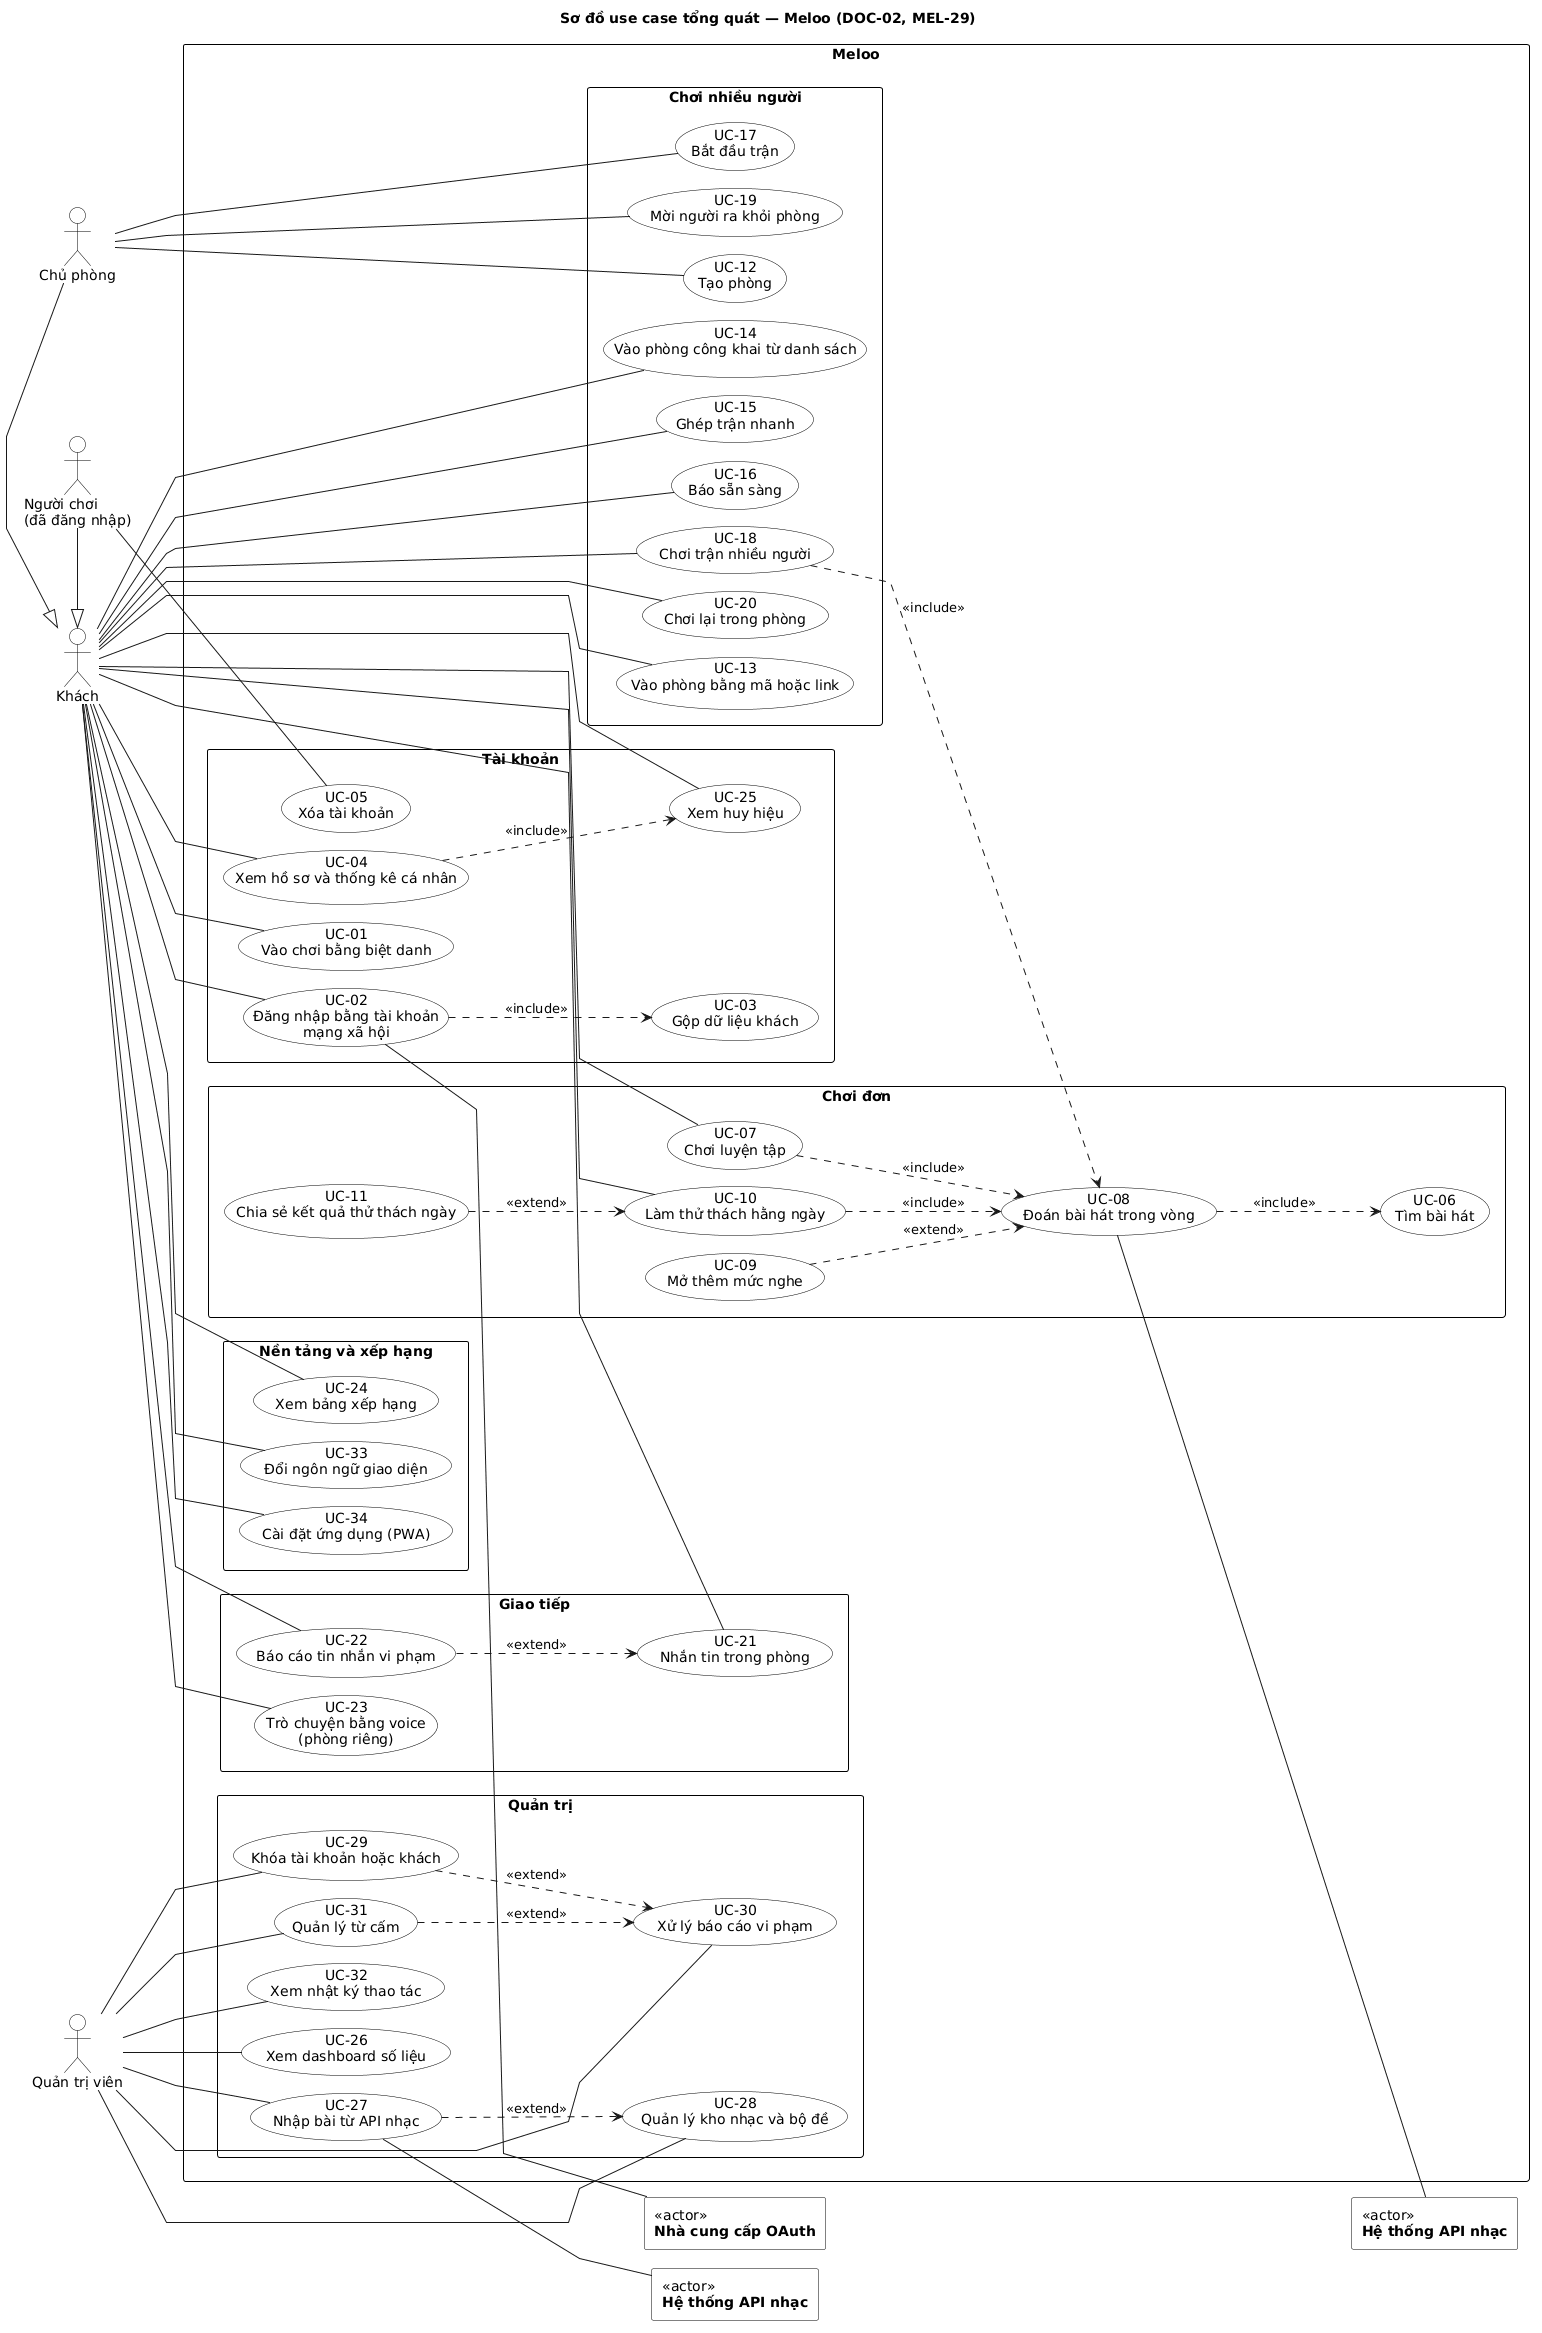
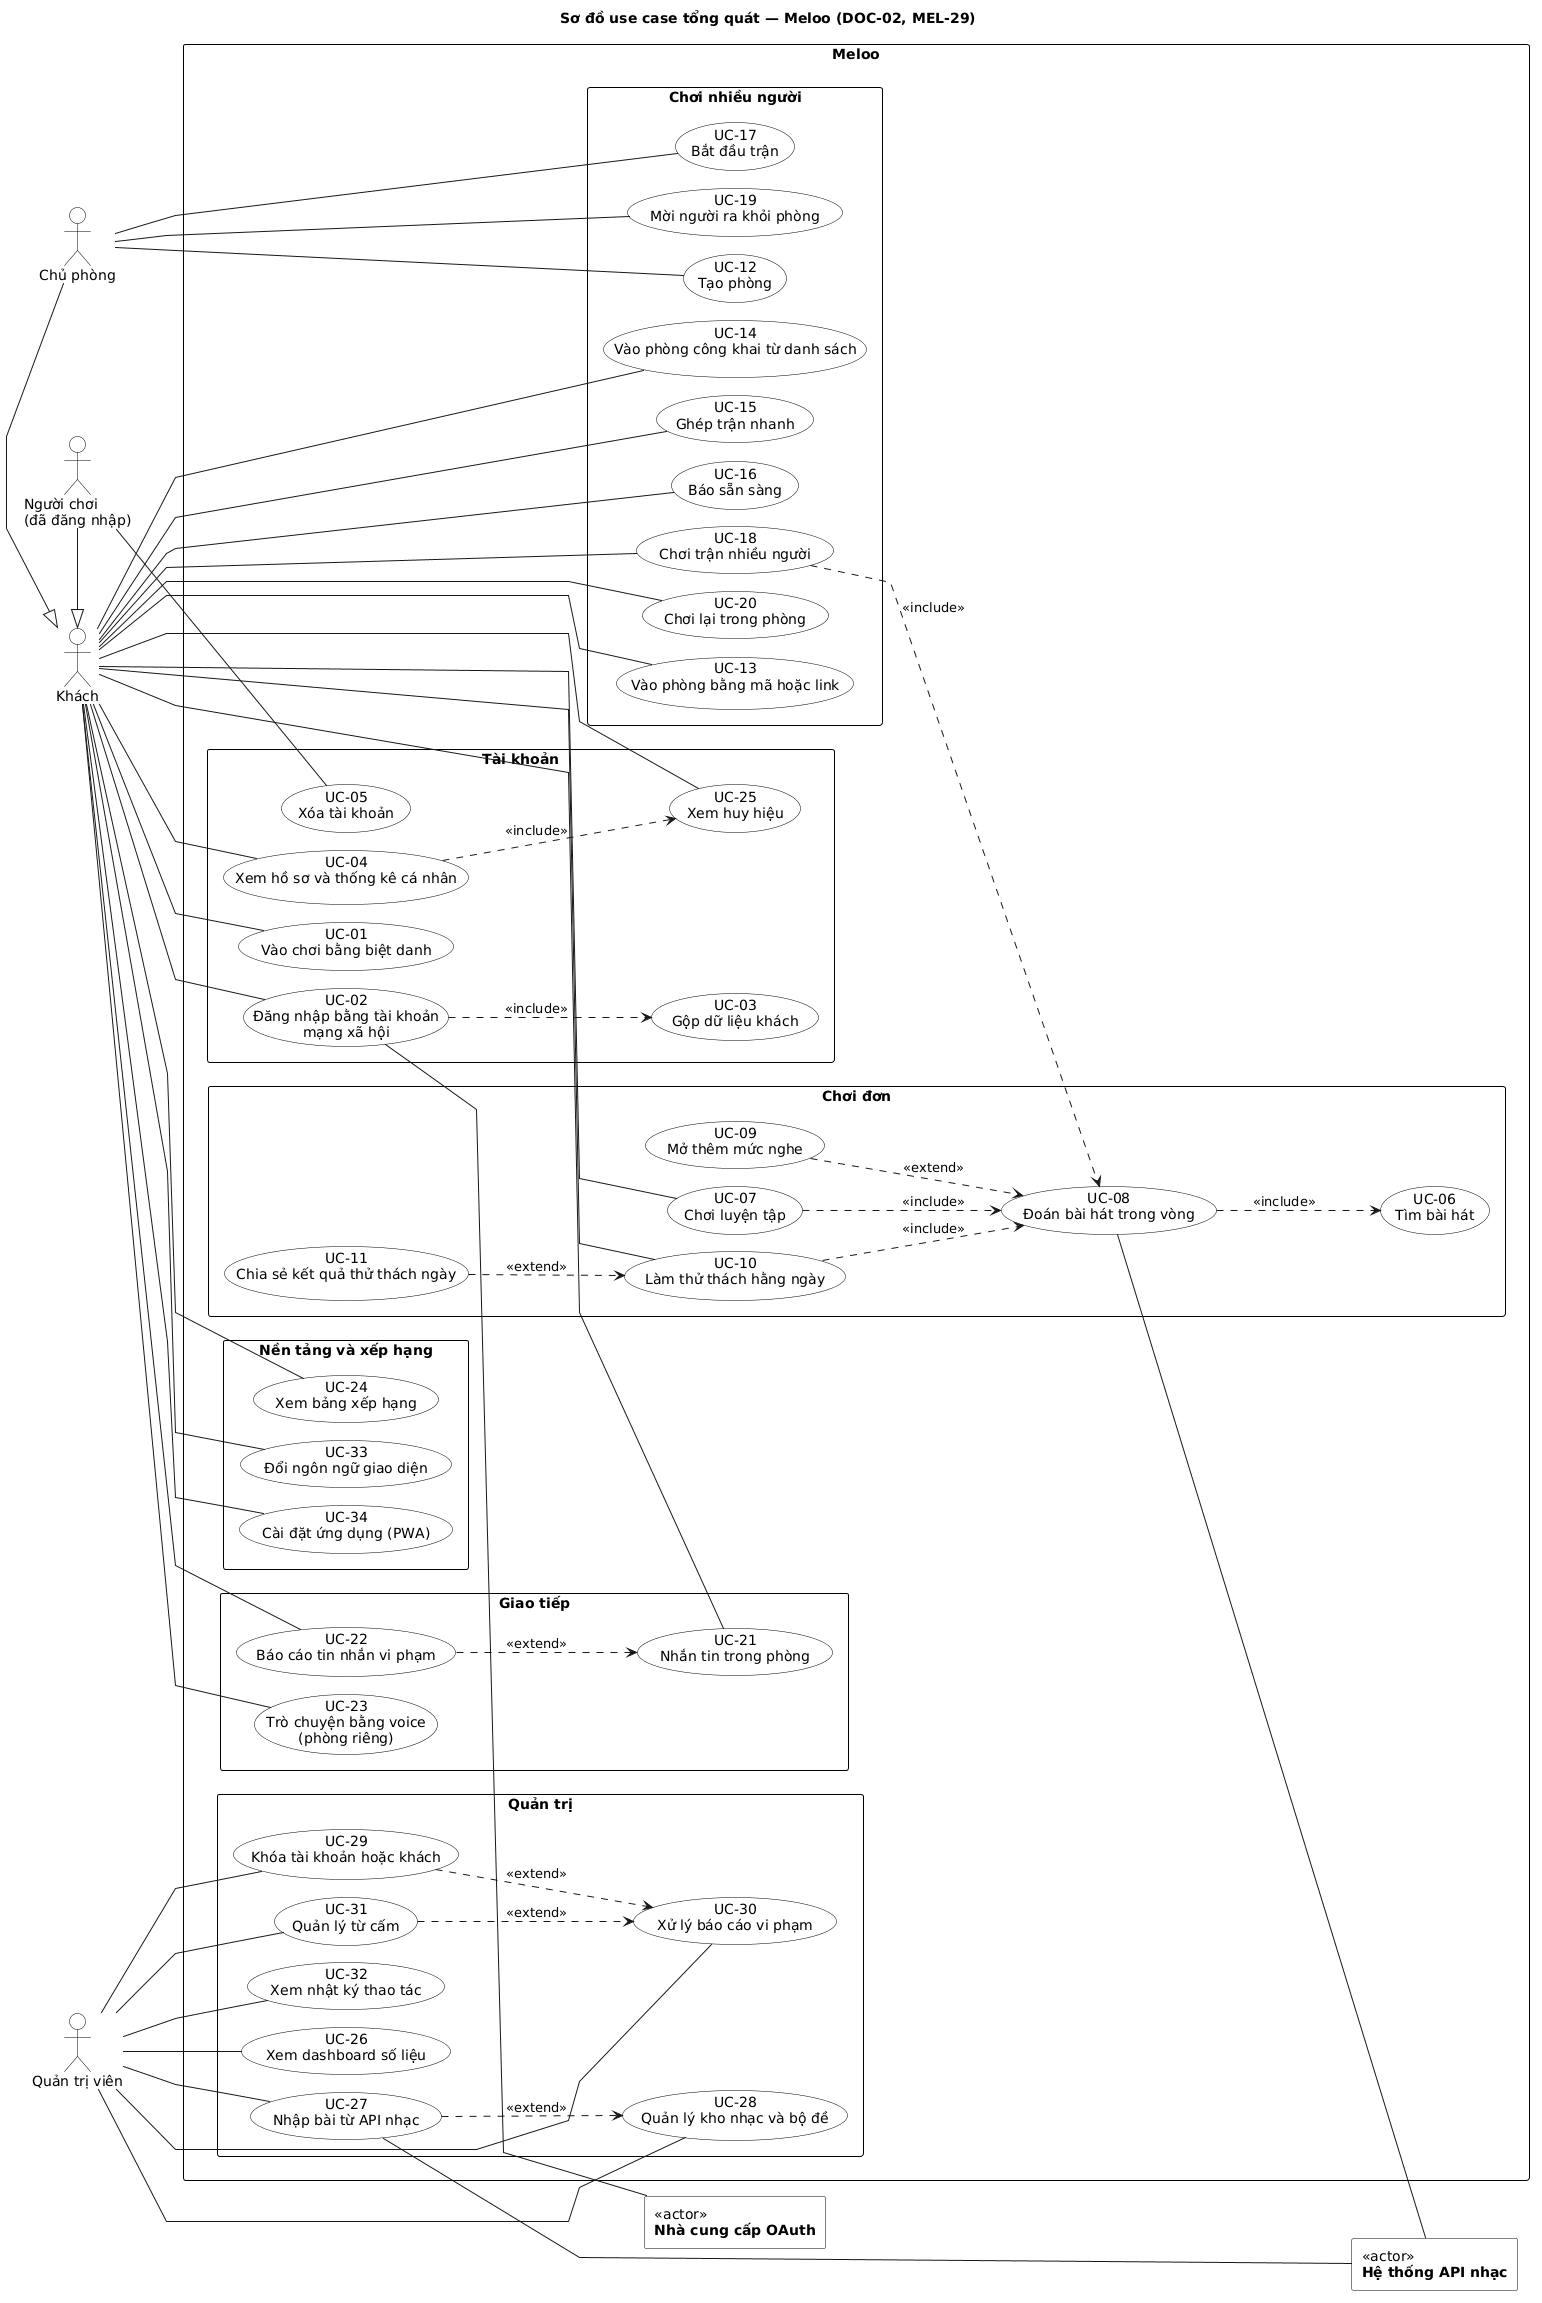
docs(srs): từ chối khách bị khóa ở UC-12, 13, 21; gộp tác nhân API nhạc

diff --git a/docs/srs/usecases/03-nhieu-nguoi.md b/docs/srs/usecases/03-nhieu-nguoi.md
@@ -4,7 +4,7 @@
 
 ### UC-12: Tạo phòng
 - Tác nhân chính / phụ: Chủ phòng (Khách hoặc Người chơi đã đăng nhập đang tạo phòng) / không có.
-- Tiền điều kiện: Người chơi có phiên và tài khoản không bị khóa.
+- Tiền điều kiện: Người chơi có phiên; tài khoản hoặc id khách của người chơi không bị khóa.
 - Hậu điều kiện (thành công / thất bại): Thành công: phòng tự tạo ở trạng thái sảnh chờ, có mã phòng, người tạo là chủ phòng. Thất bại: không có phòng nào được tạo.
 - Luồng chính:
   1. Người chơi chọn "Tạo phòng".
@@ -13,6 +13,7 @@
   4. Hệ thống tạo phòng, sinh mã 6 ký tự gồm chữ in hoa và số, bỏ các ký tự 0, O, 1, I, L.
   5. Hệ thống đưa người tạo vào sảnh chờ với vai trò chủ phòng và hiển thị mã phòng cùng link mời.
 - Luồng phụ và ngoại lệ:
+  - 1a. Tài khoản hoặc id khách bị khóa (UC-30, UC-29): hệ thống từ chối tạo phòng và báo tài khoản đã bị khóa. (Quyết định PO 22/10 (mục 5, #8))
   - 2a. Phòng công khai: hệ thống thêm phòng vào danh sách phòng công khai (UC-14).
   - 2b. Phòng riêng: voice chat có trong phòng (UC-23); phòng công khai không có voice.
   - 5a. Phòng trống quá 10 phút: hệ thống tự đóng phòng.
@@ -32,12 +33,13 @@
   4. Hệ thống đưa người chơi vào sảnh chờ, hiển thị danh sách người trong phòng và chủ phòng.
   5. Hệ thống báo cho những người trong phòng có người mới vào.
 - Luồng phụ và ngoại lệ:
+  - 1a. Tài khoản hoặc id khách bị khóa (UC-30, UC-29): hệ thống từ chối vào phòng và báo tài khoản đã bị khóa. (Quyết định PO 22/10 (mục 5, #8))
   - 2a. Mã sai hoặc phòng đã đóng: hệ thống báo không tìm thấy phòng.
   - 2b. Mã hoặc link của phòng ghép trận: phòng ghép trận không vào được bằng mã hay link nên xử lý như 2a.
   - 3a. Phòng đầy: hệ thống báo phòng đã đủ người.
   - 3b. Người chơi đã bị mời ra khỏi phòng này: hệ thống từ chối, không cho vào lại.
   - 3c. Trận đang chạy: người chơi vào sảnh chờ (nếu còn chỗ) và chơi từ trận sau, không bị báo lỗi.
-- Quy tắc nghiệp vụ: BR-11, BR-12, BR-13, BR-15.
+- Quy tắc nghiệp vụ: BR-11, BR-12, BR-13, BR-15, BR-28.
 - Yêu cầu liên quan: FR-09, NFR-11 (từ lúc mở link đến khi thấy sảnh ≤ 3 giây, p95).
 
 ### UC-15: Ghép trận nhanh
@@ -112,9 +114,10 @@
   4. Nếu đang trong vòng, hệ thống kiểm tra tin có chứa tên bài đáp án không (chuẩn hóa như BR-05).
   5. Hệ thống phát tin cho mọi người trong phòng.
 - Luồng phụ và ngoại lệ:
+  - 1a. Tài khoản hoặc id khách bị khóa (UC-30, UC-29): hệ thống từ chối gửi tin và báo cho người gửi. (Quyết định PO 22/10 (mục 5, #8))
   - 2a. Tin quá dài hoặc gửi quá nhanh: hệ thống từ chối và báo cho người gửi.
   - 3a. Tin chứa từ cấm: hệ thống chặn cả tin, không che bằng ***; chỉ người gửi thấy cảnh báo. Dùng chung cơ chế "tin bị chặn" với tin lộ đáp án (4a). (Quyết định PO 22/10 (mục 5, #6))
   - 4a. Tin chứa tên bài đáp án: hệ thống chặn (tin bị chặn), chỉ người gửi thấy cảnh báo. Hết vòng thì nói tự do.
   - 5a. Người nhận thấy tin vi phạm: báo cáo tin (UC-22, extend).
-- Quy tắc nghiệp vụ: BR-05, BR-16, BR-17.
+- Quy tắc nghiệp vụ: BR-05, BR-16, BR-17, BR-28.
 - Yêu cầu liên quan: FR-11, NFR-07.
